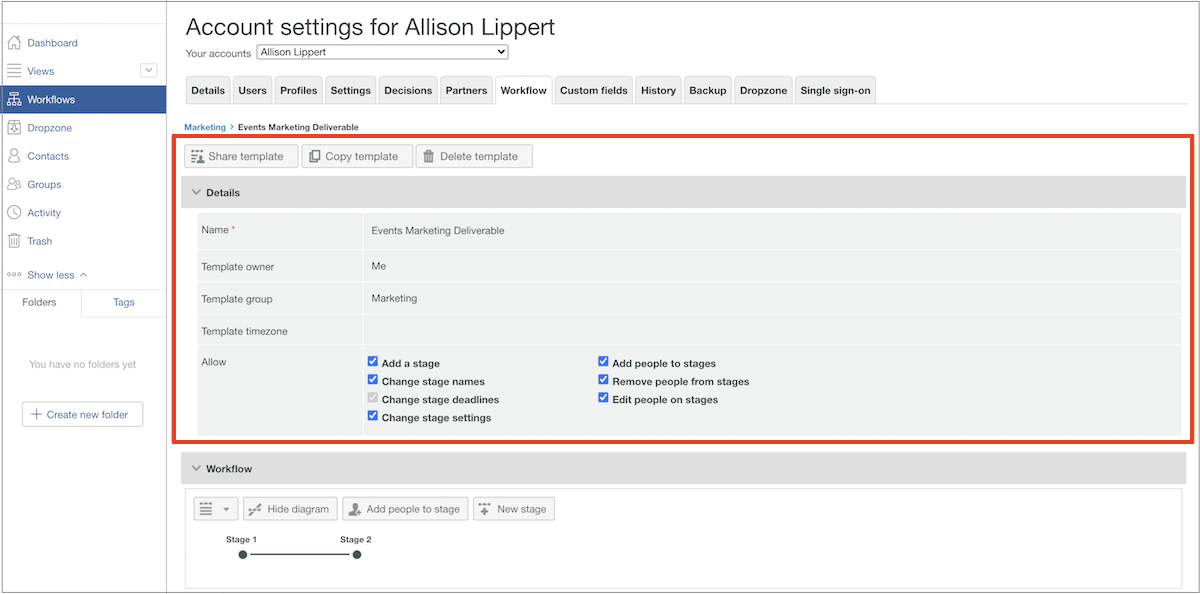
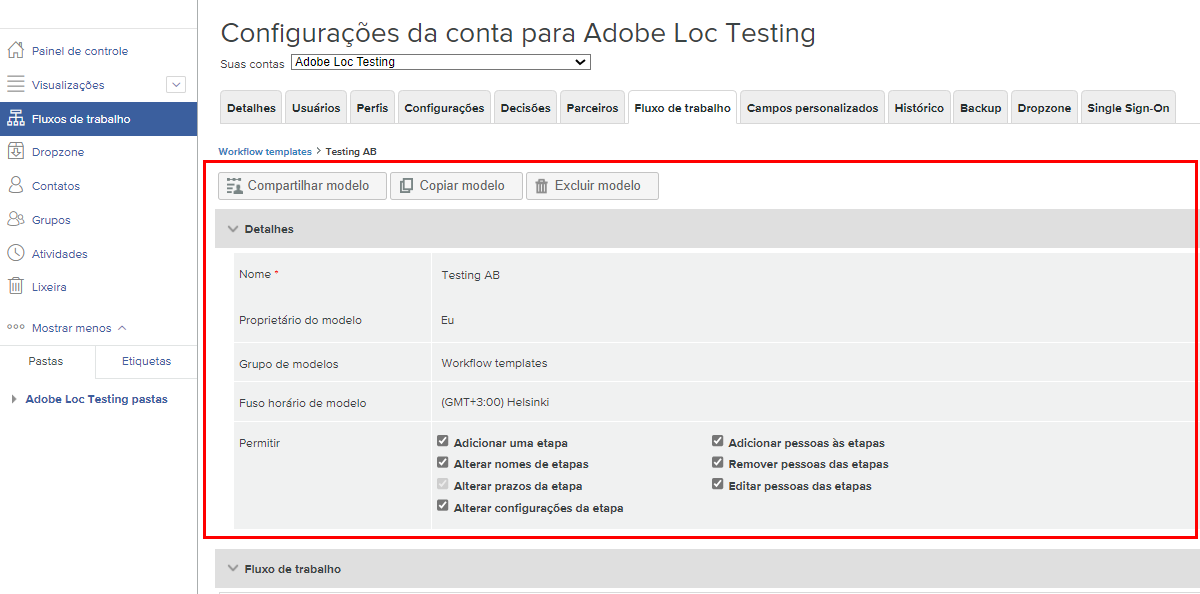
Updated by task 'AUTO_HANDOFF_1723460335056'  Changes for core/source commit https://git.corp.adobe.com/AdobeDocs/workfront-learn.en/commit/f2256fcc19d64247c79126c39acc202b4aff6f96

diff --git a/help/workfront-proof/administration-and-setup/edit-an-automated-workflow-template.md b/help/workfront-proof/administration-and-setup/edit-an-automated-workflow-template.md
@@ -13,9 +13,9 @@ jira: KT-8831
 exl-id: 03841b1f-741d-4427-ae84-ddb9f890fc95
 doc-type: video
 source-git-commit: 55edb8b797583f93f405c9c6b69422b818c90cdc
-workflow-type: tm+mt
+workflow-type: ht
 source-wordcount: '572'
-ht-degree: 61%
+ht-degree: 100%
 
 ---
 
@@ -23,18 +23,18 @@ ht-degree: 61%
 
 À medida que os processos de revisão e aprovação de prova são melhorados ou recebem alterações organizacionais, os modelos automatizados de fluxo de trabalho devem ser atualizados para refletir as operações atuais das equipes que usam o Workfront.
 
-Manter os modelos atualizados garante a consistência em seus processos de revisão e aprovação, além de economizar tempo para fazer upload das provas, pois eles não precisam ajustar constantemente um fluxo de trabalho.
+Manter os modelos atualizados garante consistência nos processos de revisão e aprovação, além de economizar tempo no upload de provas, visto que não é necessário ajustar constantemente um fluxo de trabalho.
 
 1. Selecione **[!UICONTROL Revisão]** no **[!UICONTROL Menu principal]** do [!DNL Workfront].
 1. Em seguida, selecione **[!UICONTROL Fluxos de trabalho]** no menu do painel esquerdo.
 1. Clique no menu de três pontos na extremidade direita do nome do modelo e selecione **[!UICONTROL Exibir detalhes do modelo]**.
 
-As opções para compartilhar, copiar e excluir o modelo estão localizadas na parte superior da janela de detalhes de cada modelo. A exclusão de um modelo não afeta as provas em andamento que têm esse modelo aplicado, mas significa que o modelo não está mais disponível para uso.
+As opções para compartilhar, copiar e excluir o modelo estão localizadas na parte superior da janela de detalhes de cada modelo. A exclusão de um modelo não afeta as provas em andamento que utilizam esse modelo, mas significa que o modelo não estará mais disponível para uso.
 
 ![Janela de detalhes do modelo](assets/proof-system-setup-edit-templates-details-area.png)
 
 
-Clique na seta à esquerda da palavra &quot;[!UICONTROL Detalhes]&quot; para expandir ou recolher a seção.
+Clique na seta à esquerda da palavra “[!UICONTROL Detalhes]” para expandir ou recolher a seção.
 
 ## Faça alterações nos estágios e destinatários
 
@@ -42,18 +42,18 @@ Pode ser necessário fazer alterações na área do [!UICONTROL fluxo de trabalh
 
 Cada estágio de um fluxo de trabalho automatizado possui sua própria seção, o que permite que os prazos, a privacidade, os destinatários das provas e outras informações sejam modificadas de forma independente.
 
-Este vídeo demonstra algumas das alterações que você pode fazer na área [!UICONTROL Fluxo de trabalho]. Consulte a lista com marcadores neste vídeo, que analisa essas configurações.
+Este vídeo demonstra algumas das alterações que você pode fazer na área [!UICONTROL Fluxo de trabalho]. Consulte a lista com marcadores neste vídeo, que descreve essas configurações.
 
 >[!VIDEO](https://video.tv.adobe.com/v/335131/?quality=12&learn=on)
 
 Veja novamente as alterações do modelo de prova que você pode fazer na seção [!UICONTROL Fluxo de trabalho]:
 
-* Clique no campo nome do estágio ou no campo prazo para atualizar essas informações.
-* Clique na seta à esquerda do prazo para bloquear o estágio, determinar quando o estágio é ativado ou exigir apenas uma decisão.
+* Clique no campo do nome do estágio ou no campo do prazo para atualizar essas informações.
+* Clique na seta à esquerda do prazo para bloquear o estágio, determinar quando o estágio será ativado ou exigir apenas uma decisão.
 * Na lista de destinatários, clique nos campos [!UICONTROL Função] ou [!UICONTROL Alertas de email] para selecionar outra opção.
-* Acesse o menu de 3 pontos à direita do nome de um destinatário para excluí-lo da lista, torná-lo o principal responsável pela tomada de decisões nesse estágio do fluxo de trabalho ou edite as informações de função de prova e alerta de email.
-* Você tem duas opções para adicionar recipients à lista.
-   1. No canto superior direito de cada seção de estágio, vá para o menu [!UICONTROL Mais] e selecione [!UICONTROL Adicionar pessoas ao estágio]. Depois de abrir a janela [!UICONTROL Adicionar pessoas ao estágio], clique em qual estágio adicioná-las. Em seguida, insira o nome ou endereço de email na lista de destinatários e atribua uma função de prova e um alerta por email. Clique no botão [!UICONTROL Adicionar pessoas] quando terminar.
+* Use o menu de três pontos à direita do nome de um destinatário para excluí-lo da lista, torná-lo o principal tomador de decisões nesse estágio do fluxo de trabalho ou editar a função de prova e as informações de alerta por email.
+* Você tem duas opções para adicionar destinatários à lista.
+   1. No canto superior direito de cada seção do estágio, acesse o menu [!UICONTROL Mais] e selecione [!UICONTROL Adicionar pessoas ao estágio]. Depois de abrir a janela [!UICONTROL Adicionar pessoas ao estágio], clique no estágio ao qual deseja adicioná-las. Em seguida, insira o nome ou endereço de email na lista de destinatários e atribua uma função de prova e um alerta por email. Ao terminar, clique no botão [!UICONTROL Adicionar pessoas].
    1. Na parte superior da área [!UICONTROL Fluxo de trabalho], selecione [!UICONTROL Adicionar pessoas ao estágio].
 
 ## Compartilhamento de modelo
